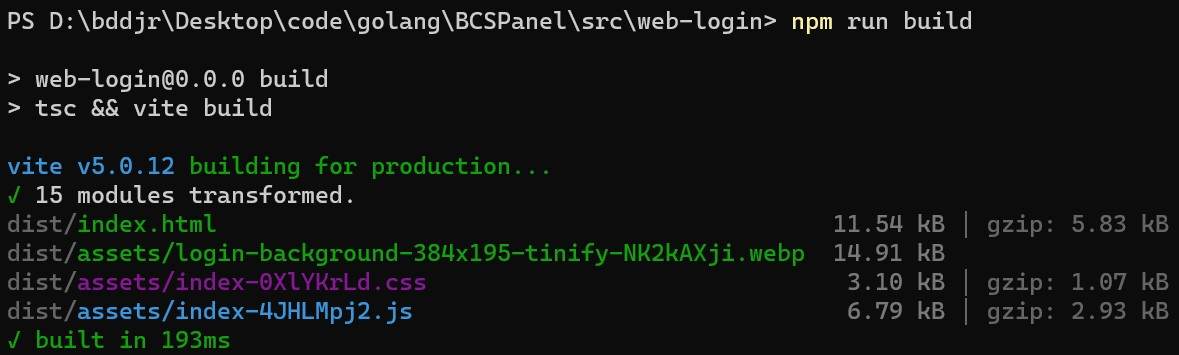
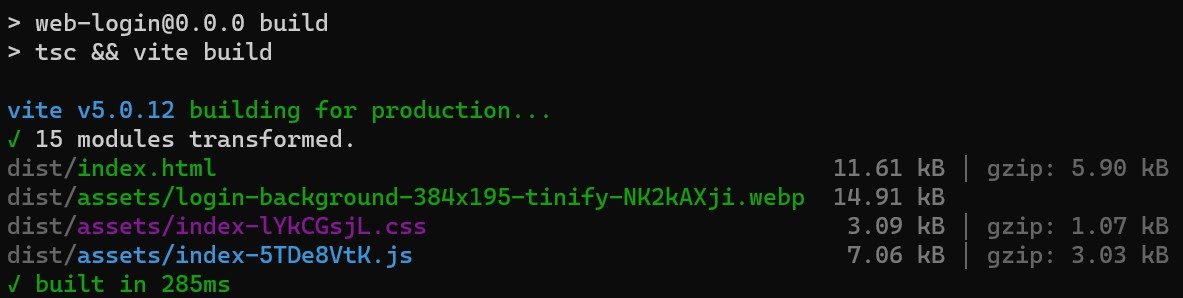
同步标题，附加微量优化

Changed region(s): [[0.0, 0.4228, 1.0, 0.9966], [0.0, 0.151, 0.458, 0.4228], [0.0, 0.0302, 0.8244, 0.1208]]

diff --git a/src/i18n/i18n.ts b/src/i18n/i18n.ts
@@ -4,9 +4,10 @@ import { getThisLang, langsParams } from "./langs";
 
 /** 自定义元素类型，基于原版添加了一些参数 */
 export interface I18nElementAttributes extends NamedNodeMap {
-    i18n_id: Attr
-    i18n_statu: Attr | undefined
-    i18n_property_name: Attr
+    i18n_id: Attr // loginTitle
+    i18n_statu: Attr | undefined // login
+    i18n_property_name: Attr // innerText
+    i18n_mirror_elementIds: Attr | undefined // title,title2,title3
 }
 export interface I18nElement extends HTMLElement {
     attributes: I18nElementAttributes
@@ -32,7 +33,7 @@ export function updateLang(
         console.log(`updateI18nElement ${i18n_id}`);
 
         /** 依据i18n_id获取所有匹配的元素 */
-        const eles = document.querySelectorAll(`[i18n_id="${i18n_id}"]`)
+        const eles = document.querySelectorAll(`[i18n_id="${i18n_id}"]`) as NodeListOf<I18nElement>
         // console.log(eles);
 
         // 如果找不到元素，滚出去
@@ -47,10 +48,10 @@ export function updateLang(
             // 如果已经输入了参数对象
             if (params) {
                 // 那么将语言文件的参数合集设置成输入的
-                (langsParams as any)[i18n_id] = params
+                langsParams[i18n_id] = params
             } else {
                 // 否则将输入的设置成语言文件的
-                params = (langsParams as any)[i18n_id]
+                params = langsParams[i18n_id]
             }
             // console.log(params);
 
@@ -58,7 +59,7 @@ export function updateLang(
             if (statu === undefined) {
                 // 获取第0个元素的statu
                 //@ts-ignore
-                statu = (eles[0] as I18nElement).attributes.i18n_statu?.value
+                statu = eles[0].attributes.i18n_statu?.value
             }
             // console.log(statu);
 
@@ -75,15 +76,23 @@ export function updateLang(
         // 遍历找到的所有元素，让更改生效
         for (const ele of eles) {
             // 如果有状态，修改元素的状态属性
-            //@ts-ignore
-            const ele_i18n_statu = (ele as I18nElement).attributes?.i18n_statu
+            const ele_i18n_statu = ele.attributes?.i18n_statu
             if (ele_i18n_statu !== undefined) {
-                ele_i18n_statu.value = (statu as string)
+                ele_i18n_statu.value = statu as string
             }
             // 如果不忽略更新显示文本，那么更新
             if (!ignore_update_property) {
+                const i18n_property_name = ele.attributes.i18n_property_name.value;
                 //@ts-ignore
-                (ele as I18nElement)[(ele as I18nElement).attributes.i18n_property_name.value] = property;
+                ele[i18n_property_name] = property;
+                // 更新镜像内容
+                const mirIds = ele.attributes.i18n_mirror_elementIds?.value?.split(',');
+                if (mirIds) for (const i of mirIds) {
+                    const mirEle = document.getElementById(i) as I18nElement | null;
+                    if (!mirEle) continue;
+                    //@ts-ignore
+                    mirEle[i18n_property_name] = property;
+                }
             }
         }
     }
@@ -107,13 +116,6 @@ export function updateLang(
 export function getI18nIdFromElementId(elementId: string): string | undefined {
     const value: string | null | undefined = (document.getElementById(elementId) as (I18nElement | null))?.attributes?.i18n_id?.value;
     if (value) return value;
-}
-
-/** 函数用于更改I18nElement的statu */
-export function setI18nElementStatu(elementId: string, value: string) {
-    const statu = (document.getElementById(elementId) as I18nElement).attributes.i18n_statu;
-    if (statu)
-        statu.value = value;
 }
 
 /** 函数用于切换显示登录状态 */

diff --git a/src/clickLogin.ts b/src/clickLogin.ts
@@ -1,13 +1,22 @@
 import { changeLoginStats } from "./i18n/i18n";
 import isRegister from "./isRegister";
 
-// 函数用于启用或禁用登录按钮
+
+export const loginConfig = {
+    login_api: '../api-login/',
+    login_success_redirect: () => {
+        location.pathname = '../web/'
+    },
+}
+
+
+/** 函数用于启用或禁用登录按钮 */
 export function setDisabledLoginButton(a: boolean) {
     (document.getElementById("loginbutton") as HTMLButtonElement).disabled = a;
 }
 
-// 函数用于触发提交表单
-export default async () => {
+/** 函数用于触发提交表单 */
+export async function clickLogin(){
     try {
         console.log("clickLogin");
         if ((document.getElementById("loginbutton") as HTMLButtonElement).disabled)
@@ -45,14 +54,14 @@ export default async () => {
         FDS.append("username", (document.getElementById("username") as HTMLInputElement).value)
         FDS.append("password", (document.getElementById("password") as HTMLInputElement).value)
 
-        const response = await fetch('../api/login', {
+        const response = await fetch(loginConfig.login_api, {
             method: "POST",
             body: FDS,
         })
 
         if (response.status == 200) {
             changeLoginStats('login_succeeded', 'green');
-            location.pathname = '../web/';
+            loginConfig.login_success_redirect();
         } else if (response.status == 403) {
             changeLoginStats('wrong_username_or_password', 'red');
             setDisabledLoginButton(false)

diff --git a/index.html b/index.html
@@ -3,11 +3,12 @@
   <head>
     <meta charset="utf-8" />
     <template id="footer_template">
+      <!-- 在此处添加备案号即可： -->
       <!-- <a href="https://beian.miit.gov.cn/" target="_blank" rel="noopener">京ICP备99999999号-9</a><br/> -->
       <!-- <a href="http://www.beian.gov.cn/portal/registerSystemInfo?recordcode=99999999999999">京公网安备99999999999999号</a><br/> -->
     </template>
 
-    <title>BCSPanel</title>
+    <title id="title">BCSPanel</title>
     <meta name="viewport" content="width=device-width, initial-scale=1.0, user-scalable=0" />
     <meta name="robots" content="noindex, nofollow" />
     <link rel="icon" href="/img/BCSP-64x64.png" />
@@ -97,6 +98,7 @@
           i18n_id="loginTitle"
           i18n_property_name="innerText"
           i18n_statu="login"
+          i18n_mirror_elementIds="title"
         >
           I18nElement
         </p>
@@ -113,7 +115,7 @@
           </div>
         </a>
         <div id="divLoginInput">
-          <form id="form" action="" method="post" class="form">
+          <form id="form" class="form">
             <input
               type="text"
               id="username"

diff --git a/src/main.ts b/src/main.ts
@@ -1,12 +1,12 @@
 import asyncSleep from './asyncSleep';
 import isRegister from './isRegister';
-import clickLogin from './clickLogin';
-import { setI18nElementStatu, updateLang } from './i18n/i18n';
+import { clickLogin } from './clickLogin';
+import { updateLang } from './i18n/i18n';
 import { changeLang, langsKeys } from './i18n/langs';
 import { updateHeight } from './updateHeight';
 
 // 将加载页面的logo的dataurl缓存备用
-; (window as any).appLogoDataUrl = (
+window.appLogoDataUrl = (
   document.getElementById('loading_applogo') as HTMLImageElement
 ).src
 
@@ -82,8 +82,8 @@ if (!window.isSecureContext) {
 // 配置注册页
 if (isRegister) {
   (document.getElementById('repeat_password') as HTMLElement).style.display = '';
-  setI18nElementStatu('loginTitle', 'register');
-  setI18nElementStatu('loginbutton', 'register');
+  updateLang('loginTitle', 'register', undefined, true);
+  updateLang('loginbutton', 'register', undefined, true);
 }
 
 // footer结尾追加内容

diff --git a/src/i18n/langs.ts b/src/i18n/langs.ts
@@ -13,7 +13,7 @@ export const langsKeys = Object.keys(langs);
 
 
 /** 语言参数 */
-export const langsParams = {
+export const langsParams: any = {
     /* "loginStatus": {
         "error": "404"
     } */

diff --git a/src/global.d.ts b/src/global.d.ts
@@ -1,0 +1,3 @@
+declare interface Window {
+    appLogoDataUrl: string;
+}
